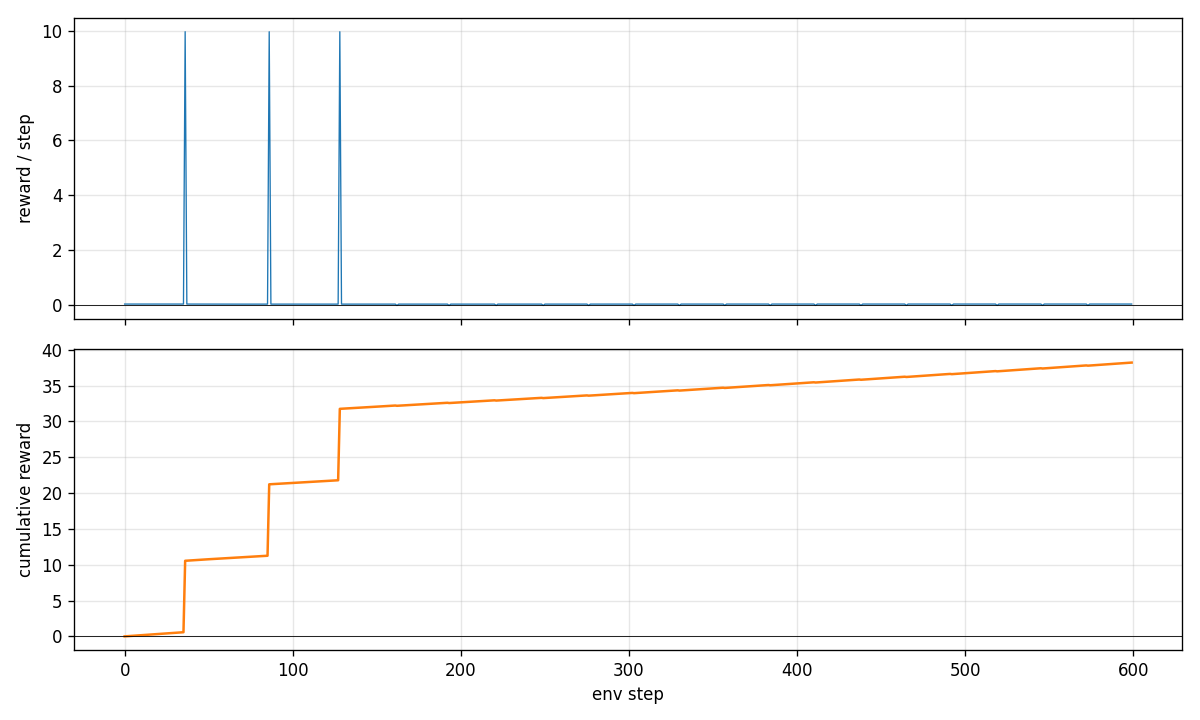
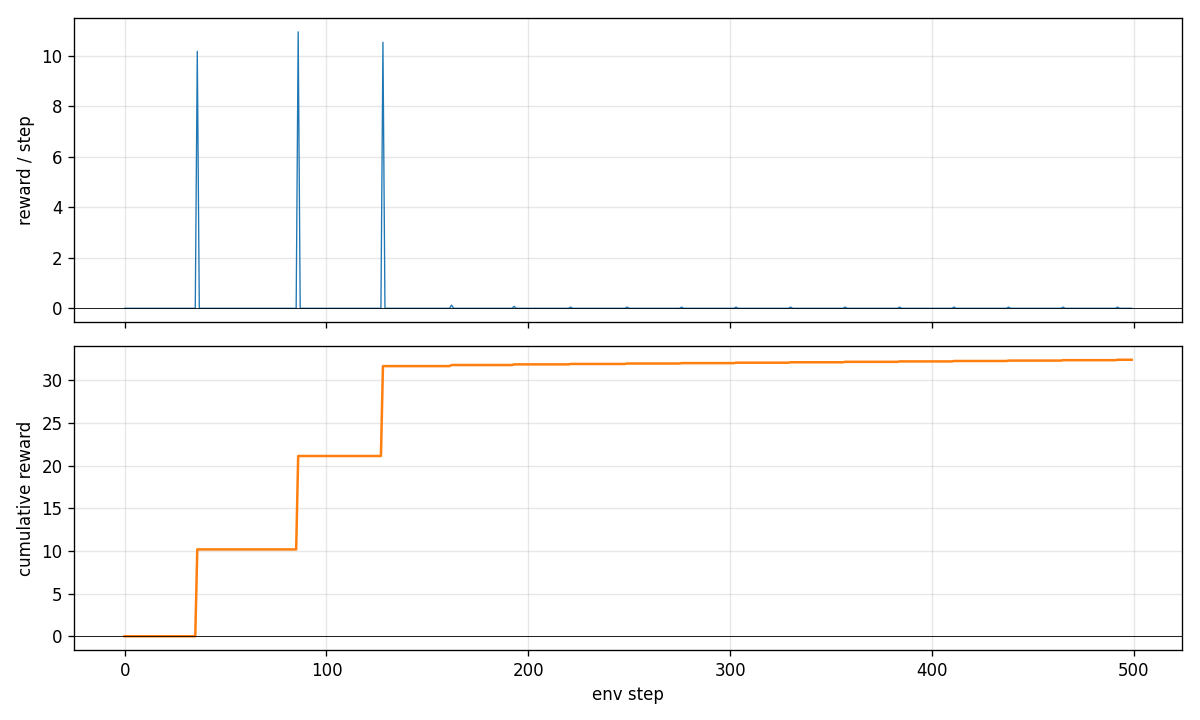
pid agent working

diff --git a/custom_envs.py b/custom_envs.py
@@ -30,15 +30,17 @@ class SimpleRewardEnv(drone_module.DroneEnv):
         r += 10.0 * info["hits"]
         r -= 0.05 * info["shots_fired"]
 
+        state = get_state(self.data)
+
         if info["shots_fired"] > 0: 
             # find distance between gun direction and target
-            state = get_state(self.data)
             R = quat_to_rot(state["quat"])
             gun_dir_world = R @ np.asarray(self.weapon.fire_dir_body, float)
             muzzle_world = state["pos"] + R @ (
                 np.asarray(self.weapon.mount_offset_m, float)
                 + np.asarray(self.weapon.fire_dir_body, float) * 0.30   # barrel length
             )
+            target_loc = self.target_field.targets[0].pos
             v = target_loc - muzzle_world
             perp = v - np.dot(v, gun_dir_world) * gun_dir_world          # gun_dir_world is unit
             miss_distance = float(np.linalg.norm(perp))